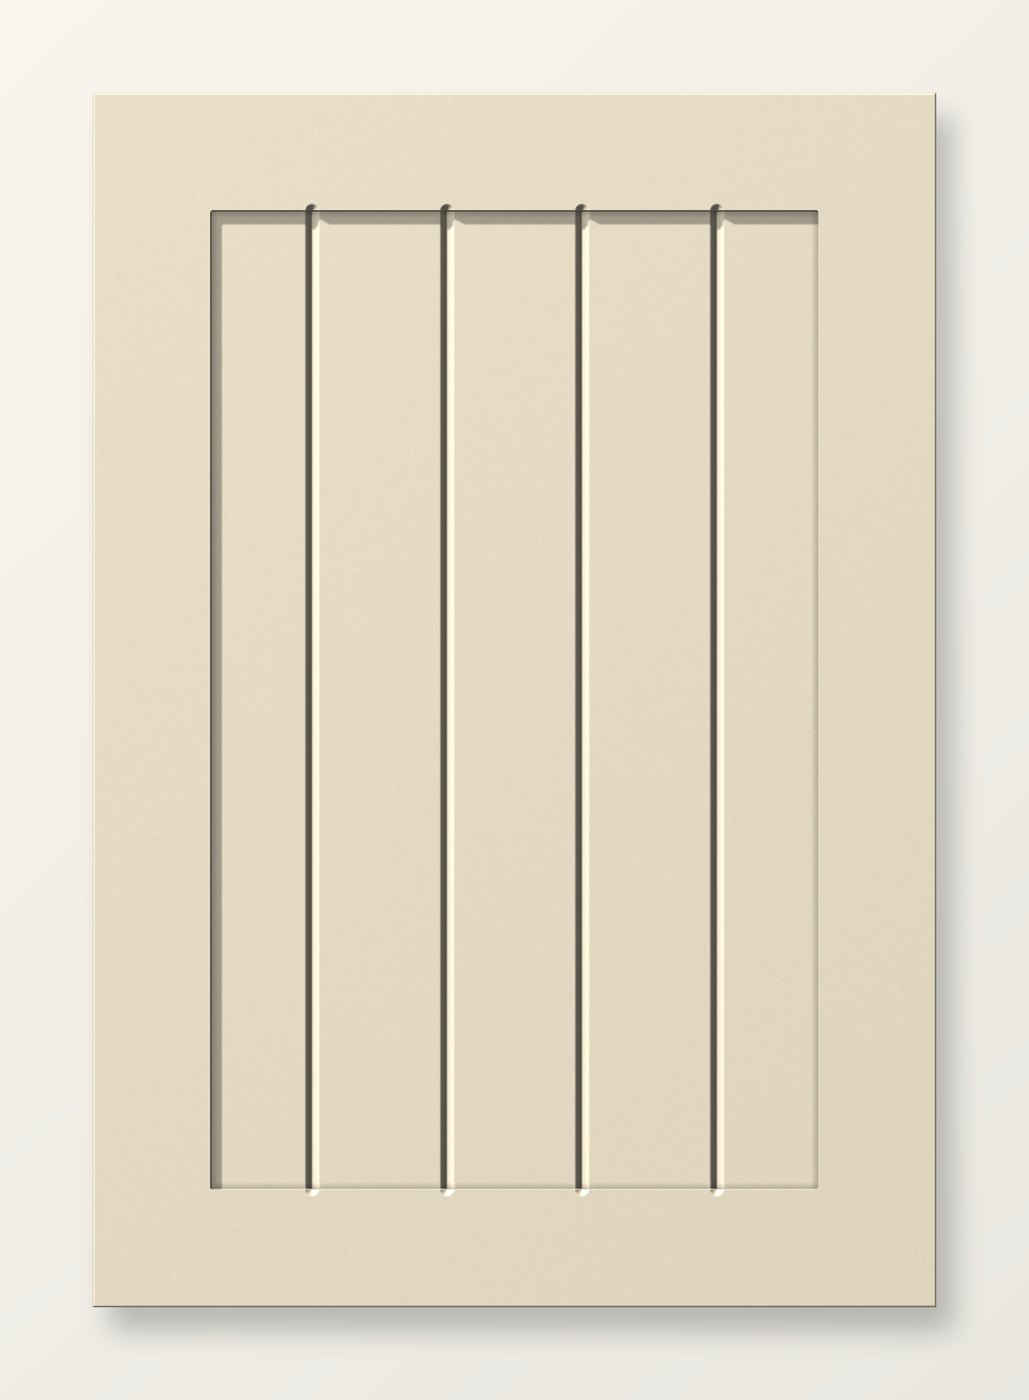
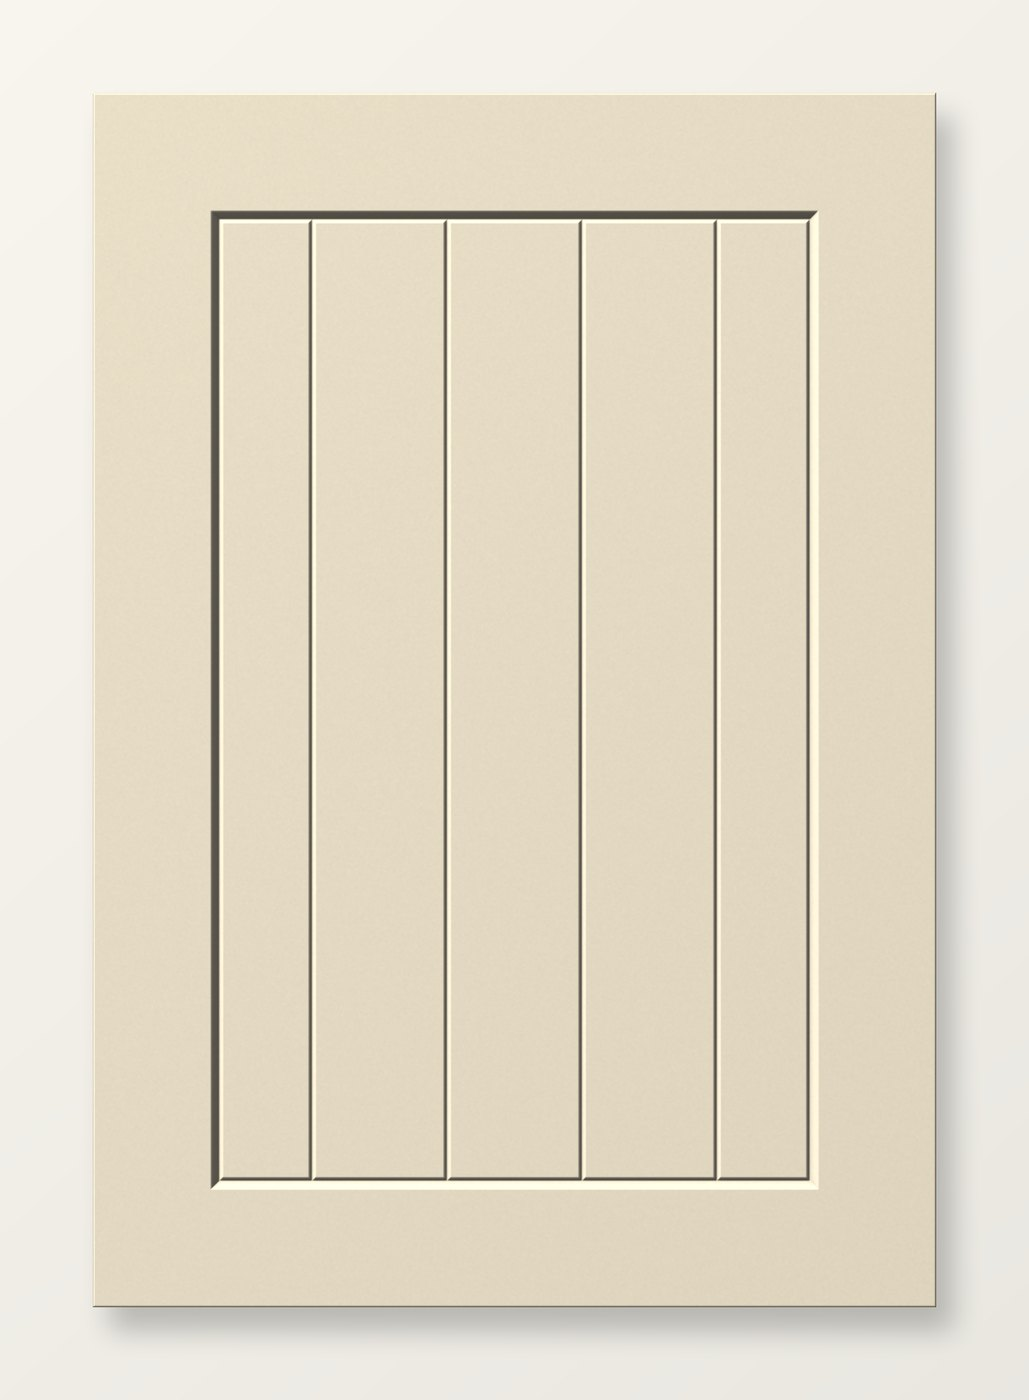
New Country from the test cuts: 3 mm pocket, 5 mm chamfer, frame width to the chamfer, optional five-piece joints (engine version 6)
Claude-Session: https://claude.ai/code/session_011TVrwjCfCNB9XYg2E3Jm2Q

Changed region(s): [[0.1866, 0.1229, 0.8086, 0.86]]

diff --git a/public/js/engine.js b/public/js/engine.js
@@ -15,12 +15,13 @@
 })(typeof self !== "undefined" ? self : this, function () {
   "use strict";
 
-  const VERSION = 5; // 5: bevelled shaker pocket 8 mm deep with an 8 mm bevel. 4: 4: bevel matches the 5 mm pocket (90 degree V-bit); beaded shaker uses a round-over moulding rail; arched sized by side margin, mirrored about the centre; fluted margins split; reeds fixed at 12.5 mm. 2: hinge distances and notes; bevelled shaker redrawn as a 5 mm recessed panel with a bevel. 3: skinny shaker pocket 5 mm deep (was 8); arched doors adjustable, with left, right and pair layouts
+  const VERSION = 6; // 6: New Country redrawn from the test cuts (3 mm pocket, grooves 5 mm from the face, a 5 mm chamfer round the panel, frame width to the top of the chamfer, optional five-piece joint grooves). 5: bevelled shaker pocket 8 mm deep with an 8 mm bevel. 4: 4: bevel matches the 5 mm pocket (90 degree V-bit); beaded shaker uses a round-over moulding rail; arched sized by side margin, mirrored about the centre; fluted margins split; reeds fixed at 12.5 mm. 2: hinge distances and notes; bevelled shaker redrawn as a 5 mm recessed panel with a bevel. 3: skinny shaker pocket 5 mm deep (was 8); arched doors adjustable, with left, right and pair layouts
   const LIMITS = { wMin: 300, wMax: 1000, hMin: 300, hMax: 1200 }; // machine bed takes 1200 x 1200 sheets; 1000 x 1200 is the largest that can be held down safely
   const OVERCUT = 10;
   const BEVEL_W = 12;            // bevelled shaker before engine version 4. From version 4 a 90 degree V-bit makes the bevel, so its width equals the pocket depth.
   const REED_PITCH = 12.5;       // reeded: centre-to-centre spacing, refined over time and fixed for customers
   const CORNER_R = 1.5;          // inside-corner radius of pockets: finished with a 1/8 in downcut or 2 mm straight bit
+  const NC = { chamfer: 5, joint: 2 };  // New Country from version 6: chamfer depth round the panel, and the depth of the five-piece joint grooves
   const HINGE = { def: 100, min: 50 }; // hinge cup centres from the top and bottom edges, mm            // grooves that run off the door go this far past the edge
   const LABEL_LAYER = "LABELS";
 
@@ -43,11 +44,14 @@
     bead6:    { layer: "BEAD_D3",      label: "Bead, 6 mm wide, 3 mm deep",                         width: 6,    color: 4 },
     v90d4:    { layer: "VGROOVE_D4",   label: "V-groove, 90 degrees, 4 mm deep",                    width: 8,    color: 1 },
     v90d5:    { layer: "VGROOVE_D5",   label: "V-groove, 90 degrees, 5 mm deep",                    width: 10,   color: 1 },
+    v90d5p:   { layer: "VGROOVE_D5",   label: "V-groove, 90 degrees, 5 mm deep from the face (2 mm below a 3 mm pocket floor)", width: 4, color: 1 },
+    v90d2:    { layer: "VGROOVE_D2",   label: "V-groove, 90 degrees, 2 mm deep",                    width: 4,    color: 1 },
     bevel:    { layer: "BEVEL_D5",     label: "Bevel, 45 degrees, from this line (at the face) down to the 5 mm pocket edge", width: 5, color: 6 },
     bevel8:   { layer: "BEVEL_D8",     label: "Bevel, 45 degrees, from this line (at the face) down to the 8 mm pocket edge", width: 8, color: 6 },
     roundover:{ layer: "ROUNDOVER",    label: "Round-over on the pocket edge (12.7 mm), corners squared", width: 12.7, color: 30 },
     mould:    { layer: "MOULD",        label: "Moulding rail: set the profile in VCarve",           width: 18,   color: 30 },
-    chamfer:  { layer: "CHAMFER_D3",   label: "Edge chamfer, 45 degrees, 3 mm",                     width: 6,    color: 6 }
+    chamfer:  { layer: "CHAMFER_D3",   label: "Edge chamfer, 45 degrees, 3 mm",                     width: 6,    color: 6 },
+    pchamfer5:{ layer: "CHAMFER_D5",   label: "Chamfer, 45 degrees, 5 mm deep: on this line (the pocket edge), outside, sloping up to the face 5 mm out", width: 5, color: 6, depth: 5 }
   };
 
   /* ---------- delivery area ---------- */
@@ -397,12 +401,31 @@
     {
       id: "newcountry", name: "New Country", family: "Shaker family", adjustable: true, draft: true, noNote: true,
       blurb: "A shaker with V-grooved boards in the panel.",
-      opts: [num("border", "Frame width", 70, 40, 120, 5), num("spacing", "Board width", 80, 50, 150, 5), fitOpt()],
-      build(W, H, o) {
-        const [p] = shakerPanels(W, H, o.border, 0);
+      opts: [num("border", "Frame width", 70, 40, 120, 5, "To the top of the chamfer round the panel."), num("spacing", "Board width", 80, 50, 150, 5), fitOpt(),
+        choice("joints", "Frame joints", "none", [["none", "None"], ["fivepiece", "Five-piece look"]], "Adds a groove where each rail meets a stile, so the frame looks like a traditional five-piece door.")],
+      build(W, H, o, door) {
+        if (door && door.version < 6) { // engine version 5 and earlier: 8 mm pocket at the frame width, 4 mm grooves
+          const [p] = shakerPanels(W, H, o.border, 0);
+          const bl = boardLines(p[0], p[2], o);
+          const paths = [{ tool: "pocket8", pts: rect(...p), closed: true }];
+          for (const x of bl.xs) paths.push({ tool: "v90d4", pts: [[x, p[1]], [x, p[3]]] });
+          return { outline: rect(0, 0, W, H), paths, dims: frameDims(W, H, o.border, 0).concat(boardDims(p[0], p[2], bl, H * 0.62)) };
+        }
+        // Version 6 (Tim's test cuts): 3 mm pocket; grooves 2 mm below its floor (5 mm from the face);
+        // a 5 mm chamfer on the pocket line rising to the face 5 mm out. The frame width runs to the
+        // top of the chamfer, so the pocket line is NC.chamfer further in.
+        const [p] = shakerPanels(W, H, o.border + NC.chamfer, 0);
         const bl = boardLines(p[0], p[2], o);
-        const paths = [{ tool: "pocket8", pts: rect(...p), closed: true }];
-        for (const x of bl.xs) paths.push({ tool: "v90d4", pts: [[x, p[1]], [x, p[3]]] });
+        const paths = [{ tool: "pocket3", pts: rect(...p), closed: true }, { tool: "pchamfer5", pts: rect(...p), closed: true }];
+        for (const x of bl.xs) paths.push({ tool: "v90d5p", pts: [[x, p[1]], [x, p[3]]] });
+        if (o.joints === "fivepiece") {
+          // Joint grooves from the corners of the chamfer to the top and bottom edges, set out from the
+          // pocket line by the chamfer depth plus the groove depth, so each groove's inner edge meets the
+          // chamfer's top edge.
+          const off = NC.chamfer + NC.joint, xl = p[0] - off, xr = p[2] + off, yt = p[1] - off, yb = p[3] + off;
+          paths.push({ tool: "v90d2", pts: [[xl, -OVERCUT], [xl, yt]] }, { tool: "v90d2", pts: [[xr, -OVERCUT], [xr, yt]] },
+            { tool: "v90d2", pts: [[xl, yb], [xl, H + OVERCUT]] }, { tool: "v90d2", pts: [[xr, yb], [xr, H + OVERCUT]] });
+        }
         return { outline: rect(0, 0, W, H), paths, dims: frameDims(W, H, o.border, 0).concat(boardDims(p[0], p[2], bl, H * 0.62)) };
       }
     },
@@ -741,6 +764,12 @@
           const faces = [[o[0], o[1], i[1], i[0], ".10"], [o[1], o[2], i[2], i[1], ".04"], [o[2], o[3], i[3], i[2], ".03"], [o[3], o[0], i[0], i[3], ".08"]];
           for (const [q1, q2, q3, q4, op] of faces) s += `<polygon points="${ptsAttr([q1, q2, q3, q4])}" fill="#000" fill-opacity="${op}"/>`;
           s += `<polygon points="${ptsAttr(o)}" fill="none" stroke="#fff" stroke-opacity=".35" stroke-width="2"/>`;
+        } else if (p.tool === "pchamfer5" && p.pts.length === 4) {
+          // A chamfer rising from the pocket edge to the frame face, lit from the top left.
+          const w = t.width, [a, , c] = p.pts, o = rect(a[0] - w, a[1] - w, c[0] + w, c[1] + w), i = p.pts;
+          const faces = [[o[0], o[1], i[1], i[0], ".20"], [o[1], o[2], i[2], i[1], ".05"], [o[2], o[3], i[3], i[2], ".02"], [o[3], o[0], i[0], i[3], ".14"]];
+          for (const [q1, q2, q3, q4, op] of faces) s += `<polygon points="${ptsAttr([q1, q2, q3, q4])}" fill="#000" fill-opacity="${op}"/>`;
+          s += `<polygon points="${ptsAttr(o)}" fill="none" stroke="#000" stroke-opacity=".28" stroke-width="1.5"/>`;
         } else if (p.tool === "chamfer") {
           s += `<polygon points="${ptsAttr(p.pts)}" fill="none" stroke="#fff" stroke-opacity=".45" stroke-width="5"/>`;
         } else {

diff --git a/scripts/test.js b/scripts/test.js
@@ -391,6 +391,18 @@ async function payPath(ref) {
   assert(E.designById("lattice").archived && E.buildDoor(nd({ design: "lattice", width: 400, height: 680 }).door).dims.length === 2, "lattice archived, with diamond measurements");
   assert(!/tight but/.test(E.designNote(nd({ design: "shaker", width: 450, height: 700 }).door)) && E.designNote(nd({ design: "newcountry", width: 450, height: 700 }).door) === "");
   assert(E.layerList([nd({ design: "georgian", width: 450, height: 700, opts: { sdepth: "3" } }).door]).some((l) => l.layer === "POCKET_D3"));
+  // engine version 6: New Country from the test cuts, with old orders kept as they were
+  const ncDoor = (opts, version) => { const d = { ...nd({ design: "newcountry", width: 500, height: 720, opts }).door }; if (version) d.version = version; return d; };
+  const nc = E.buildDoor(ncDoor({ border: 70 })), ncPk = nc.paths.find((p) => p.tool === "pocket3");
+  assert.deepStrictEqual(ncPk.pts[0], [75, 75], "frame width runs to the top of the chamfer: pocket line 5 mm further in");
+  assert(nc.paths.some((p) => p.tool === "pchamfer5" && p.pts[0][0] === 75) && nc.paths.filter((p) => p.tool === "v90d5p").every((p) => p.pts[0][1] === 75 && p.pts[1][1] === 645));
+  assert.deepStrictEqual(E.layerList([ncDoor({})]).map((l) => l.layer).sort(), ["CHAMFER_D5", "CUTOUT", "POCKET_D3", "VGROOVE_D5"]);
+  assert(!nc.paths.some((p) => p.tool === "v90d2"), "no joint grooves unless chosen");
+  const j = E.buildDoor(ncDoor({ border: 70, joints: "fivepiece" })).paths.filter((p) => p.tool === "v90d2");
+  assert.deepStrictEqual(j.map((p) => p.pts), [[[68, -10], [68, 68]], [[432, -10], [432, 68]], [[68, 652], [68, 730]], [[432, 652], [432, 730]]], "joint grooves set out 5 + 2 mm from the pocket line, overcut past the edge");
+  assert(E.layerList([ncDoor({ joints: "fivepiece" })]).some((l) => l.layer === "VGROOVE_D2"));
+  const ncOld = E.buildDoor(ncDoor({ border: 70, joints: "fivepiece" }, 5));
+  assert(ncOld.paths[1].tool === "pocket8" && ncOld.paths[1].pts[0][0] === 70 && ncOld.paths.slice(2).every((p) => p.tool === "v90d4"), "version 5 New Country orders keep their geometry");
   assert(nd({ design: "georgian", width: 450, height: 700, opts: { border: 35 } }).errors.border, "Georgian frame minimum matches the shaker");
   const ex = (w) => E.buildDoor(nd({ design: "tvgroove", width: w, height: 600, opts: { fit: "exact", spacing: 100 } }).door).paths.filter((p) => p.tool === "v90d4").map((p) => p.pts[0][0]);
   for (const w of [450, 600, 733]) { const xs = ex(w); for (let i = 1; i < xs.length; i++) assert(Math.abs(xs[i] - xs[i - 1] - 100) < 1e-6, "exact boards are exactly 100 mm"); }

diff --git a/scripts/render_designs.py b/scripts/render_designs.py
@@ -84,6 +84,17 @@ def height_map(door, X, Y):
             d = np.clip(sd, 0, R)
             drop = R - np.sqrt(np.maximum(R * R - (R - d) ** 2, 0))
             Z = np.where((sd > 0) & (sd < R), np.minimum(Z, -drop), Z)
+        elif tool == "pchamfer5":
+            # Chamfer on the pocket edge (Sharp corners): 5 mm deep on the line, rising 45 degrees
+            # to the face 5 mm out, and down to the line from the pocket floor on the inside.
+            x0, y0, x1, y1 = rect_of(pts)
+            sd = np.maximum.reduce([x0 - X, X - x1, y0 - Y, Y - y1])   # square contours outside, distance to the edge inside
+            Z = np.minimum(Z, -np.clip(5 - np.abs(sd), 0, 5))
+        elif tool in ("v90d5p", "v90d2"):
+            # V-grooves measured from the face (a groove in a pocket cuts through air first).
+            dp = {"v90d5p": 5, "v90d2": 2}[tool]
+            d = dist_polyline(X, Y, pts)
+            Z = np.minimum(Z, -np.clip(dp - d, 0, dp))
         elif tool == "chamfer":
             d_edge = np.minimum.reduce([X, W - X, Y, H - Y])
             Z = np.minimum(Z, -np.clip(3 - d_edge, 0, 3))

diff --git a/CLAUDE.md b/CLAUDE.md
@@ -35,6 +35,7 @@ The work is split into workstreams. **Read `docs/workstreams/README.md` and `doc
 - The bevelled shaker is a flat frame, then a 45 degree bevel (90 degree V-bit, 8 mm wide to match the depth) down to a flat panel pocketed 8 mm deep. Layers: `BEVEL_D8` (the top edge of the bevel) and `POCKET_D8` (the panel floor). Older orders keep 5 mm (version 4) or 5 mm with a 12 mm bevel (`BEVEL_W`, before version 4).
 - One DXF per order, in mm, with parts spread apart for VCarve to nest. Each cut has its own layer named by the type of cut and its depth only, with no tool names (e.g. `POCKET_D8`, `VGROOVE_D4`, `BEVEL_D8`, `ROUNDOVER`); Tim picks bits and toolpaths in VCarve (decided 24 Nov 2026). Plus `CUTOUT` (outline), `LABELS`, and grooves overcut 10 mm past the edge where they run off the door.
 - **Depths and widths in `TOOLS` (top of engine.js) are placeholders** until Tim's test cuts confirm them.
+- **New Country (engine version 6, 27 Nov 2026, from Tim's test cuts):** 3 mm pocket (`POCKET_D3`); board grooves on `VGROOVE_D5` (5 mm from the face, 2 mm below the floor); a 45 degree chamfer on the pocket line (`CHAMFER_D5`: Chamfer toolpath, outside, slope upwards, 5 mm deep). The frame width runs to the top of the chamfer, so the pocket line is 5 mm further in. Optional **Frame joints: Five-piece look** adds four `VGROOVE_D2` grooves where the rails meet the stiles, set out 5 + 2 mm from the pocket line so each groove's inner edge meets the chamfer's top edge, overcut 10 mm past the top and bottom edges. Older orders keep the 8 mm pocket with 4 mm grooves.
 - Shaker pockets: Traditional 8 mm deep, frame 40–120 mm; Skinny 5 mm deep (so hinge cups don't weaken the face), frame 18–35 mm. Arched doors can be single, left, right or a pair (one line, two doors, default 3 mm gap).
 - Every pocket shows customers its depth and a 1.5 mm inside-corner radius (1/8 in downcut or 2 mm finishing bit). The bevel (90 degree V-bit) is as wide as the pocket is deep. Beaded shaker = 12.7 mm round-over moulding rail on the pocket edge. Reeds are fixed at 12.5 mm. Board patterns can be "Fit evenly" or "Exact width". Options are ordered frame width, then pattern sliders, then toggles; every slider has a linked number box. Arched doors are mirrored about the door or pair centre line, sized by a side margin.
 - Designs with `lab: true` appear only on the unlinked test page `/test-designs` and can't be ordered.

diff --git a/docs/workstreams/designs.md b/docs/workstreams/designs.md
@@ -106,3 +106,10 @@ Tim cut the sample doors on 25 Nov 2026. **No engine changes until Tim approves*
 
 **New Country: Tim's settled approach (late Nov 2026)**, replacing the 8 mm pocket and 4 mm grooves: pocket **3 mm** deep; V-grooves **2 mm below the floor** (start depth 3, so 5 mm from the face, 4 mm wide); the pocket line **duplicated for a Chamfer toolpath, Outside, Slope Upwards, 5 mm deep**: a 45° chamfer from the pocket line at 5 mm depth up to the face 5 mm outside it. This also solves the groove-end notch: the chamfer runs along the wall at the same depth and angle as the grooves, so each groove end falls inside it. (Tim also tried a different tool angle on the bevel toolpath, which made the face opening worse, pointing to the V-bit's Z zero rather than its angle.)
 Proposed engine change (needs Tim's OK, bump `VERSION`): New Country = `POCKET_D3` + grooves on `VGROOVE_D5` + a new `CHAMFER_D5` layer on the pocket line. Question: should the customer's frame width run to the top edge of the chamfer (what you see; pocket line 5 mm further in) or to the pocket line?
+
+## Changes on 27 Nov 2026 (engine VERSION 6): New Country from the test cuts (Tim approved)
+- New Country: `POCKET_D3`, board grooves on `VGROOVE_D5` (V-bit 5 mm from the face, 2 mm below the floor, 4 mm wide), and `CHAMFER_D5` on the pocket line (Chamfer toolpath: Outside, Slope Upwards, 5 mm deep, Sharp corners). **Frame width now runs to the top of the chamfer** (Tim's choice); the pocket line is 5 mm further in. Help text under the slider says so.
+- New option **Frame joints: None / Five-piece look** (default None): four `VGROOVE_D2` grooves from the chamfer's top corners to the top and bottom edges, set out 5 + 2 mm from the pocket line (the chamfer depth plus the groove depth), so each groove's inner edge lines up with the chamfer's top edge. Overcut 10 mm past the door edge as usual.
+- Preview draws the chamfer as a shaded band; the New Country render (`public/img/designs/newcountry-render.jpg` + thumb) is redrawn from the new geometry (render script now draws `pchamfer5`, `v90d5p` and `v90d2`).
+- Orders saved before version 6 keep the 8 mm pocket with 4 mm grooves (tested in `npm test`).
+- Checked: DXF read back with ezdxf and drawn; configurator option tested in a browser.
